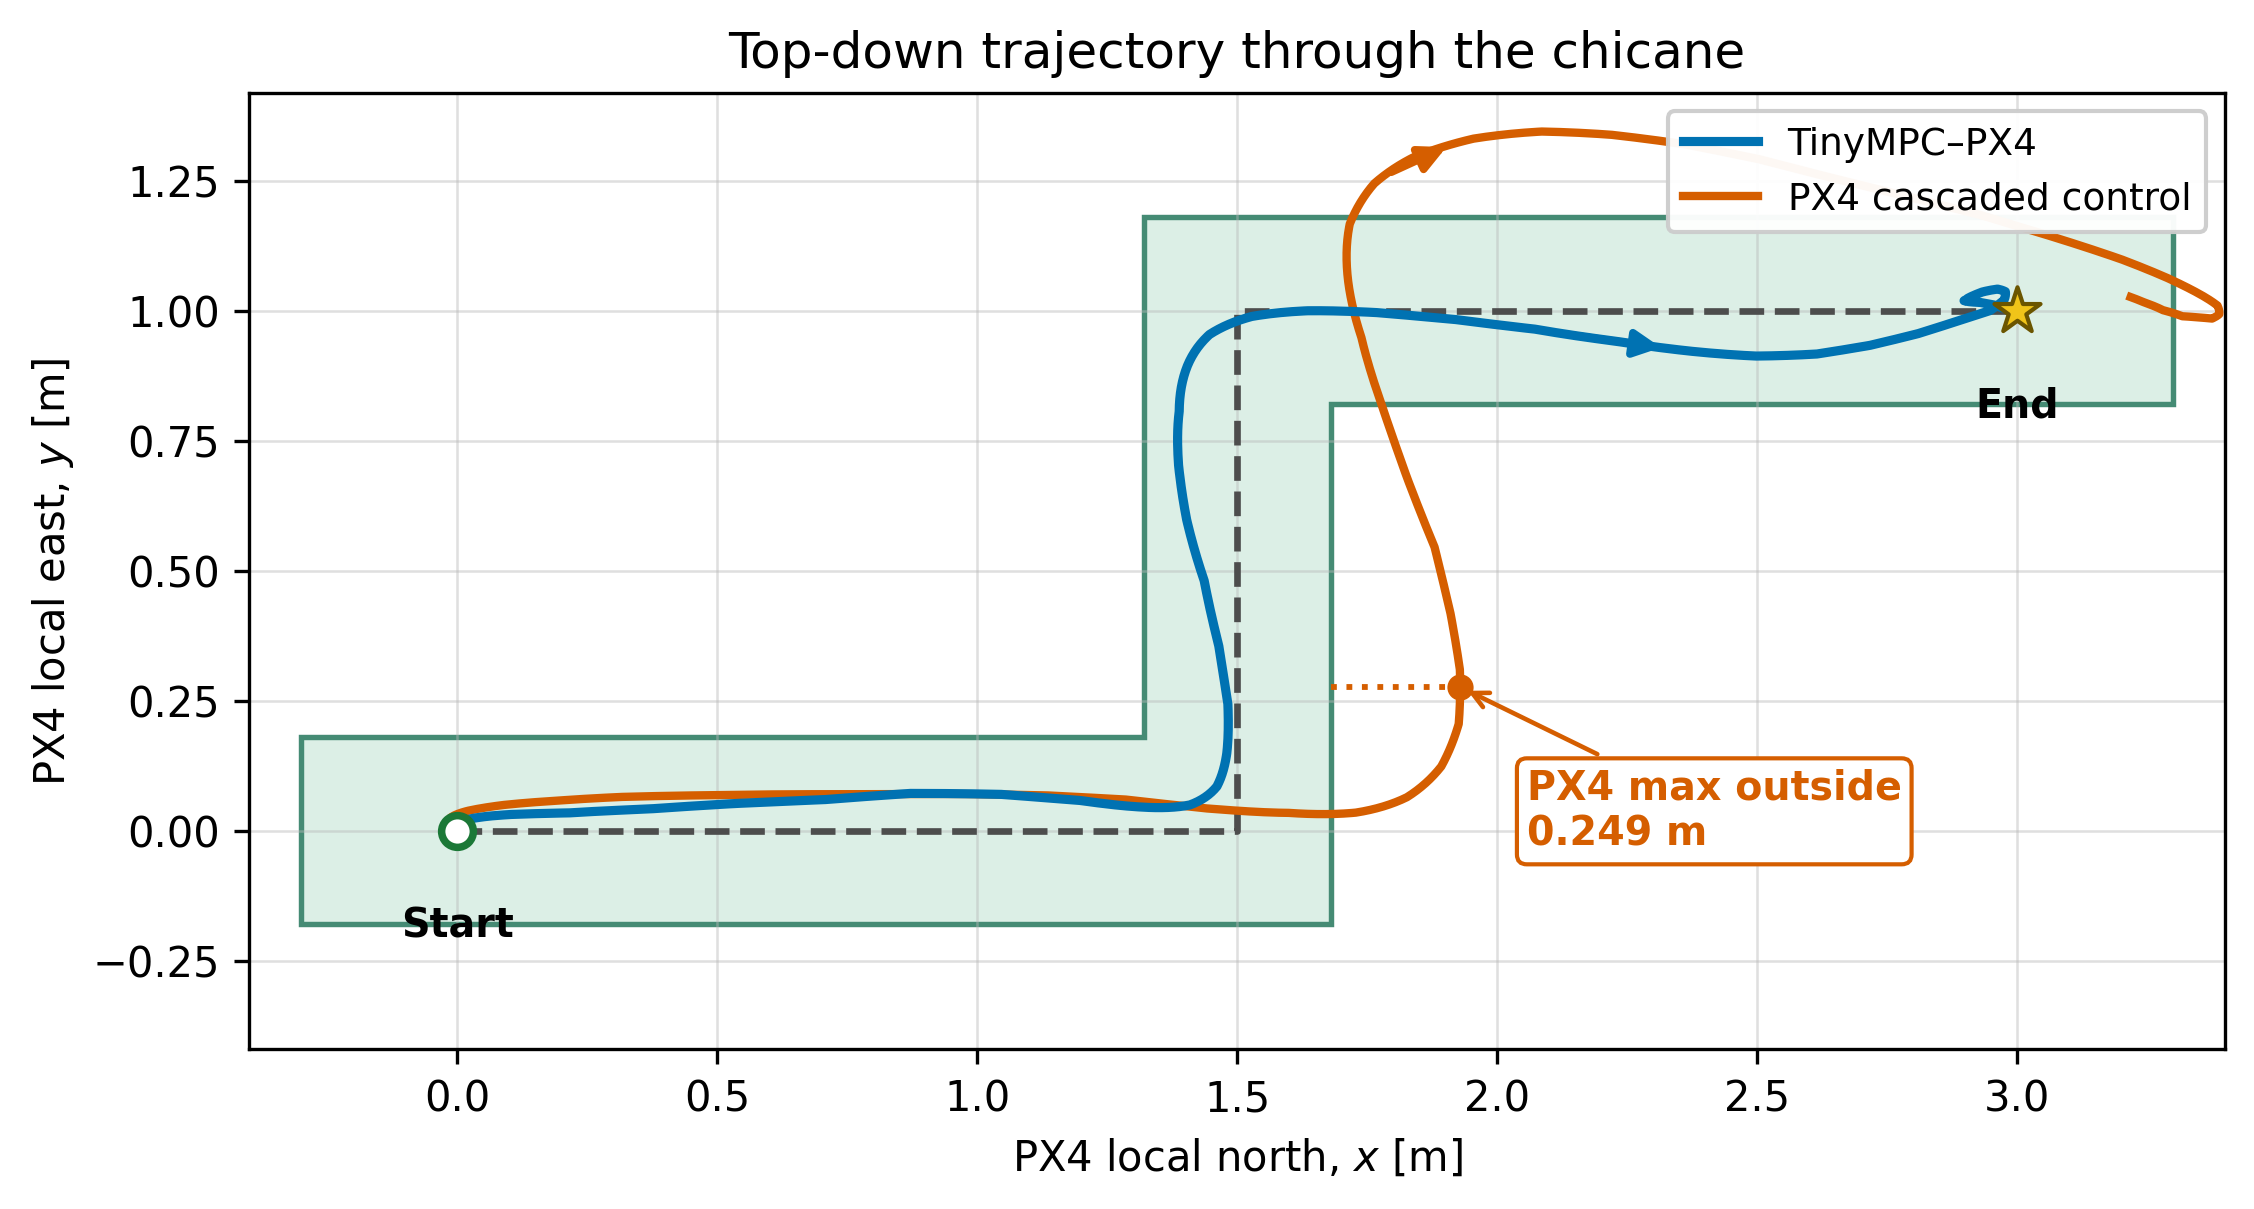
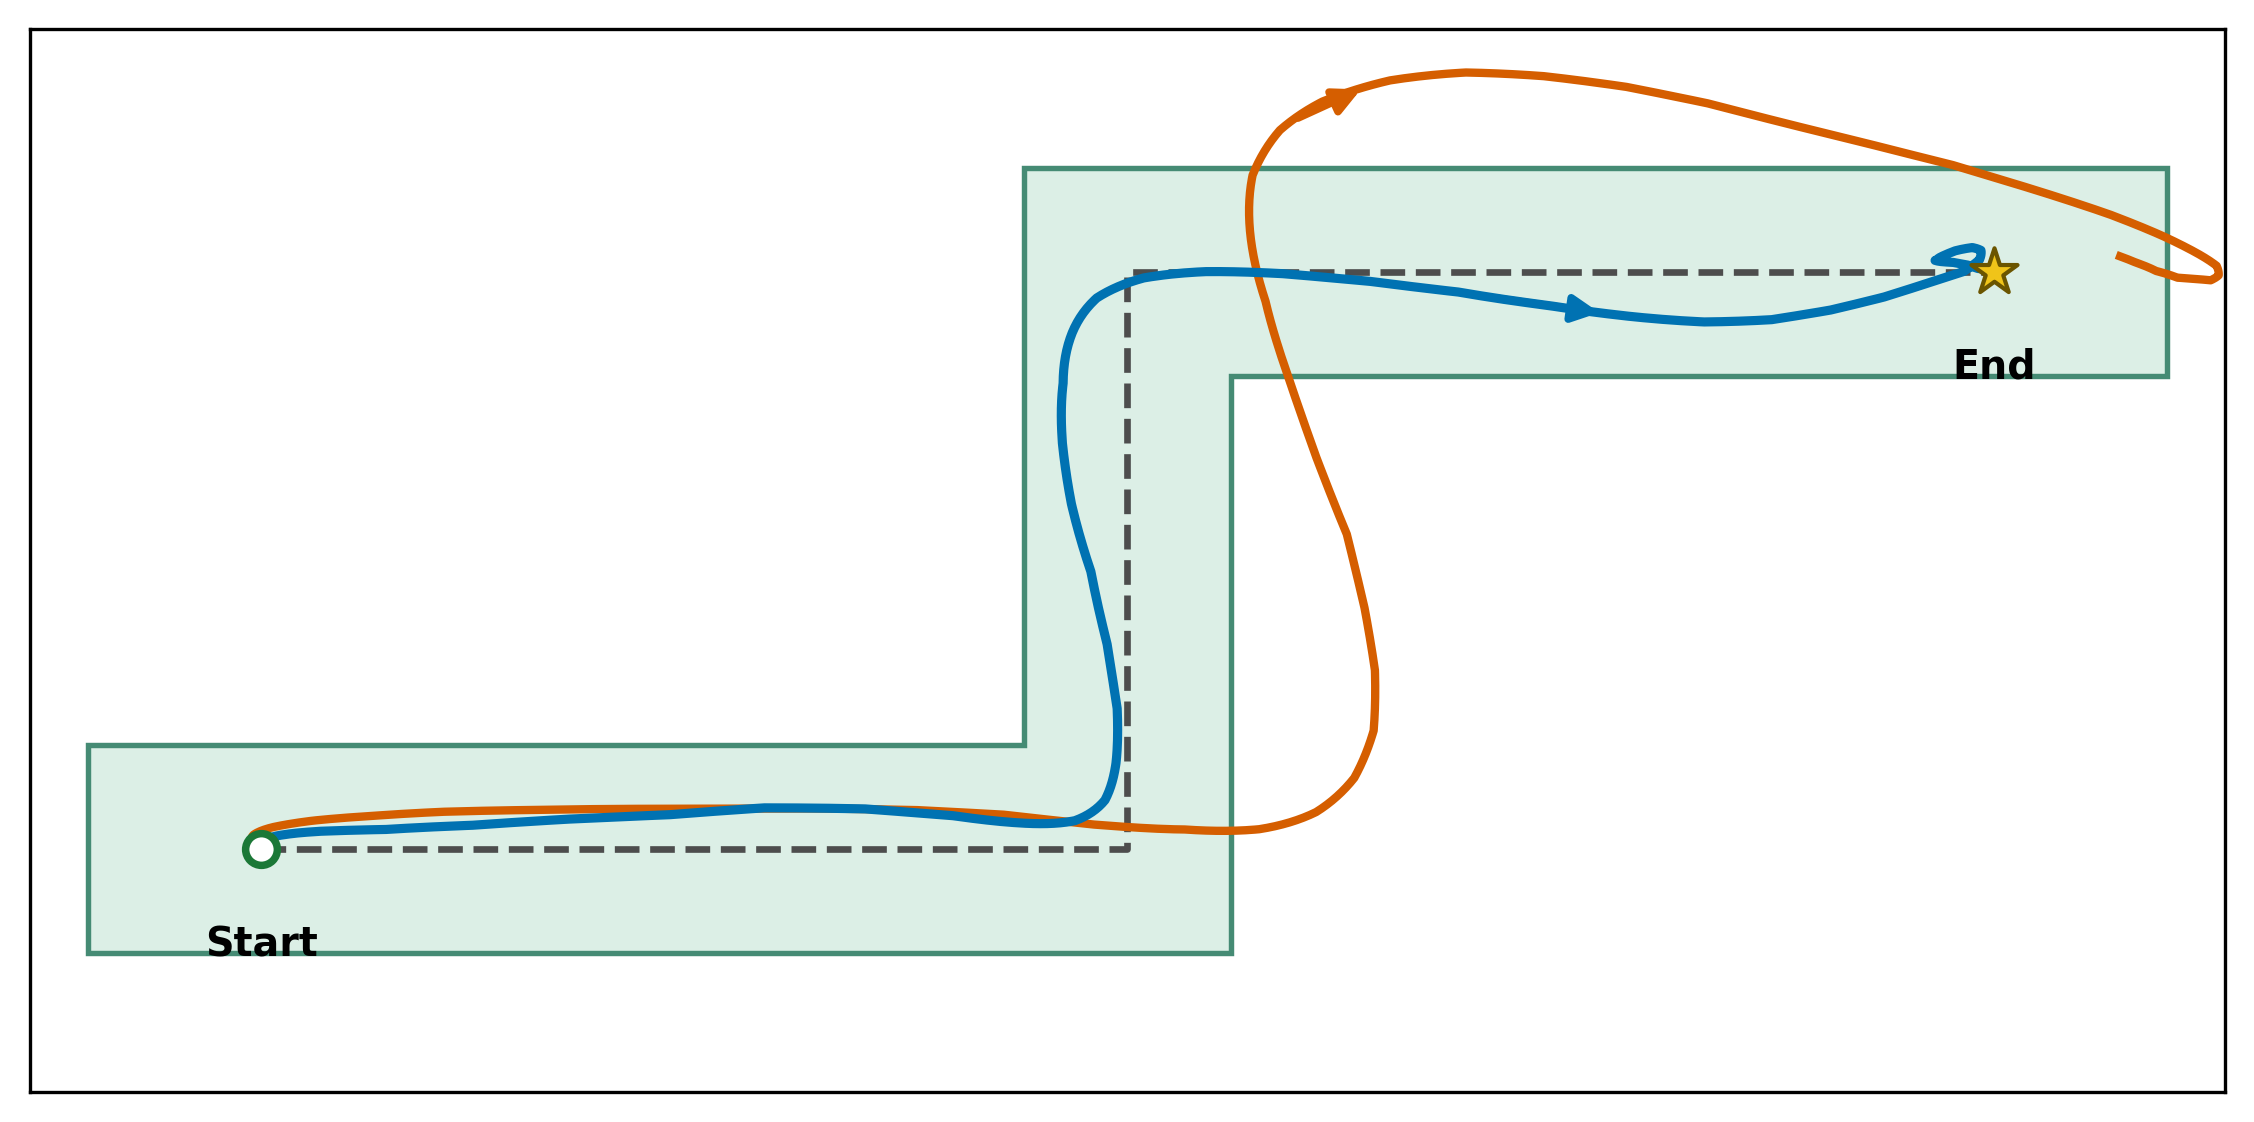
Remove figure titles and callouts

diff --git a/scripts/plot_chicane_results.py b/scripts/plot_chicane_results.py
@@ -56,17 +56,6 @@ def corridor_violation(x: np.ndarray, y: np.ndarray) -> np.ndarray:
     return np.min(np.vstack(distances), axis=0)
 
 
-def closest_corridor_point(x: float, y: float) -> tuple[float, float]:
-    """Return the nearest point in the corridor union to one query point."""
-    candidates = []
-    for xmin, xmax, ymin, ymax in CORRIDOR_RECTS:
-        cx = float(np.clip(x, xmin, xmax))
-        cy = float(np.clip(y, ymin, ymax))
-        candidates.append((np.hypot(x - cx, y - cy), cx, cy))
-    _, closest_x, closest_y = min(candidates)
-    return closest_x, closest_y
-
-
 def reference_at(time_s: np.ndarray) -> tuple[np.ndarray, np.ndarray]:
     """Evaluate the exact piecewise-linear reference used by the chicane test."""
     time_s = np.maximum(np.asarray(time_s, dtype=float), 0.0)
@@ -252,36 +241,11 @@ def plot_top_down(tiny: dict, px4: dict, output_dir: Path) -> None:
     add_direction_arrow(axis, tiny, TINY_COLOR, 3.45)
     add_direction_arrow(axis, px4, PX4_COLOR, 3.45)
 
-    worst_index = int(np.argmax(px4["violation_m"]))
-    worst_x = float(px4["x_m"][worst_index])
-    worst_y = float(px4["y_m"][worst_index])
-    closest_x, closest_y = closest_corridor_point(worst_x, worst_y)
-    worst_value = px4["metrics"]["maximum_outside_corridor_m"]
-    axis.plot(
-        [closest_x, worst_x], [closest_y, worst_y], linestyle=":",
-        color=PX4_COLOR, linewidth=1.4, zorder=6,
-    )
-    axis.scatter([worst_x], [worst_y], s=28, color=PX4_COLOR, zorder=7)
-    axis.annotate(
-        f"PX4 max outside\n{worst_value:.3f} m",
-        xy=(worst_x, worst_y),
-        xytext=(16, -38),
-        textcoords="offset points",
-        color=PX4_COLOR,
-        fontsize=9.5,
-        fontweight="semibold",
-        arrowprops=dict(arrowstyle="->", color=PX4_COLOR, lw=1.1),
-        bbox=dict(boxstyle="round,pad=0.25", facecolor="white", edgecolor=PX4_COLOR),
-        zorder=9,
-    )
     axis.set_xlim(-0.40, 3.40)
     axis.set_ylim(-0.42, 1.42)
     axis.set_aspect("equal", adjustable="box")
-    axis.set_xlabel("PX4 local north, $x$ [m]")
-    axis.set_ylabel("PX4 local east, $y$ [m]")
-    axis.set_title("Top-down trajectory through the chicane")
-    axis.grid(True, color="#B8B8B8", linewidth=0.6, alpha=0.45)
-    axis.legend(loc="upper right", fontsize=9.0, framealpha=0.96)
+    axis.set_xticks([])
+    axis.set_yticks([])
     save_figure(fig, output_dir, "chicane_top_down")
     plt.close(fig)
 
@@ -299,43 +263,13 @@ def plot_violation(tiny: dict, px4: dict, output_dir: Path) -> None:
     axis.fill_between(
         px4["time_s"], 0.0, px4["violation_m"], color=PX4_COLOR, alpha=0.12, zorder=1,
     )
-    for corner_number, corner_time in enumerate(CORNER_TIMES, start=1):
+    for corner_time in CORNER_TIMES:
         axis.axvline(corner_time, color="#777777", linestyle=":", linewidth=1.0, zorder=0)
-        axis.text(
-            corner_time + 0.04, 0.268, f"corner {corner_number}", rotation=90,
-            va="top", color="#666666", fontsize=8.5,
-        )
-
-    worst_index = int(np.argmax(px4["violation_m"]))
-    worst_time = float(px4["time_s"][worst_index])
-    worst_value = float(px4["violation_m"][worst_index])
-    axis.scatter([worst_time], [worst_value], s=30, color=PX4_COLOR, zorder=5)
-    axis.annotate(
-        f"PX4 peak = {worst_value:.3f} m",
-        xy=(worst_time, worst_value),
-        xytext=(worst_time + 0.50, worst_value - 0.035),
-        color=PX4_COLOR,
-        fontsize=9.5,
-        fontweight="semibold",
-        arrowprops=dict(arrowstyle="->", color=PX4_COLOR, lw=1.1),
-        bbox=dict(boxstyle="round,pad=0.25", facecolor="white", edgecolor=PX4_COLOR),
-    )
-    axis.text(
-        3.35,
-        0.018,
-        f"TinyMPC max = {tiny['metrics']['maximum_outside_corridor_m']:.3f} m",
-        color=TINY_COLOR,
-        fontsize=9.5,
-        fontweight="semibold",
-        bbox=dict(boxstyle="round,pad=0.25", facecolor="white", edgecolor=TINY_COLOR),
-        zorder=6,
-    )
 
     axis.set_xlim(0.0, DEFAULT_DURATION)
     axis.set_ylim(-0.005, 0.28)
     axis.set_xlabel("Time [s]")
     axis.set_ylabel("Outside-corridor distance [m]")
-    axis.set_title("Corridor violation")
     axis.grid(True, color="#B8B8B8", linewidth=0.6, alpha=0.45)
     axis.legend(loc="upper right", fontsize=9.0, framealpha=0.96)
     save_figure(fig, output_dir, "chicane_violation_time")
